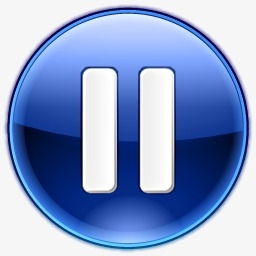
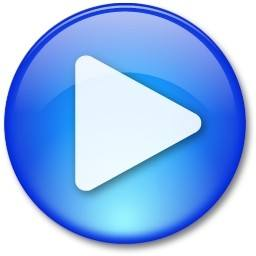
update 08-21

diff --git a/sikplayer.cpp b/sikplayer.cpp
@@ -7,6 +7,8 @@
 #include "QPalette"
 #include "QGridLayout"
 #include "mystatuswidget.h"
+#include <QTableWidgetItem>
+#include "QMessageBox"
 using namespace SikConfig;
 
 SikPlayer::SikPlayer(QWidget *parent)
@@ -14,19 +16,13 @@ SikPlayer::SikPlayer(QWidget *parent)
     , ui(new Ui::SikPlayer)
 {
     this->setWindowIcon(QIcon(icoUrl));
+    this->setAttribute(Qt::WA_TransparentForMouseEvents);
 
     ui->setupUi(this);
 
     ui->menubar->setVisible(false);
 
-//    connect(ui->fileMenu, &QMenu::triggered, this, [&](){
-//        filelist = QFileDialog::getOpenFileNames();
-//        for(QString file : filelist)
-//        {
-//            QStringList splname = file.split("/");
-//            ui->FileBrowser->append(splname[splname.length()-1]);
-//        }
-//    });
+
 
 //    QPalette pal;
 //    pal.setColor(QPalette::Background, Qt::black);
@@ -40,9 +36,13 @@ SikPlayer::SikPlayer(QWidget *parent)
     videoWidget = new QVideoWidget(this);
     player = new QMediaPlayer();
     player->setVideoOutput(videoWidget);
+    videoWidget->show();
+    playlist = new QMediaPlaylist();
+    player->setPlaylist(playlist);
     fileBrowser = new QTableWidget(this);
     fileBrowser->setColumnCount(2);
     fileBrowser->setHorizontalHeaderLabels({"文件名", "时间"});
+    fileBrowser->setFixedWidth(200);
     mystatusWidget* status = new mystatusWidget(this);
     status->setFixedHeight(150);
     layout->addWidget(videoWidget, 0, 0, 1, 4);
@@ -51,7 +51,33 @@ SikPlayer::SikPlayer(QWidget *parent)
     layout->setSpacing(0);
     ui->centralwidget->setLayout(layout);
 
-    this->setStyleSheet("QWidget#status{border: 3px, gray; border-color: gray; border-style: groove; border-radius: 5px;}");
+    connect(ui->fileMenu, &QMenu::triggered, this, [&](){
+        QStringList templist = QFileDialog::getOpenFileNames();
+        for(QString file : templist)
+        {
+            filelist.append(file);
+        }
+        for(QString file : filelist)
+        {
+            playlist->addMedia(QMediaContent(QUrl(file)));
+        }
+        updateList(filelist);
+    });
+
+    connect(status, &mystatusWidget::Play, this, [&](){
+        if(playlist->isEmpty())
+        {
+            QMessageBox();
+            return;
+        }
+        player->play();
+    });
+
+    connect(status, &mystatusWidget::Stop, this, [&](){
+        player->play();
+    });
+
+    //this->setStyleSheet("QWidget#status{border: 3px, gray; border-color: gray; border-style: groove; border-radius: 5px;}");
 }
 
 SikPlayer::~SikPlayer()
@@ -62,4 +88,15 @@ SikPlayer::~SikPlayer()
 void SikPlayer::enterEvent(QEvent*)
 {
     ui->menubar->show();
+}
+
+void SikPlayer::updateList(QStringList &playlist)
+{
+    fileBrowser->setRowCount(playlist.count());
+    for(int i=0; i<playlist.size(); ++i)
+    {
+        QStringList splname = playlist[i].split("/");
+        QTableWidgetItem* item = new QTableWidgetItem(splname[splname.size()-1]);
+        fileBrowser->setItem(i, 0, item);
+    }
 }

diff --git a/mystatuswidget.cpp b/mystatuswidget.cpp
@@ -9,6 +9,7 @@ mystatusWidget::mystatusWidget(QWidget *parent) :
     QWidget(parent),
     ui(new Ui::mystatusWidget)
 {
+    isplay = false;
     ui->setupUi(this);
     ui->upButton->setIcon(QIcon(upUrl));
     ui->upButton->setFixedWidth(50);
@@ -21,9 +22,33 @@ mystatusWidget::mystatusWidget(QWidget *parent) :
     ui->stopButton->setFlat(true);
     ui->stopButton->setFixedSize(50, 50);
     ui->timelabel->setFixedHeight(50);
+
+    connect(ui->stopButton, &QPushButton::clicked, this, [&](){
+        if(isplay)
+        {
+            ui->stopButton->setIcon(QIcon(stopUrl));
+            sendStop();
+        }
+        else
+        {
+            ui->stopButton->setIcon(QIcon(startUrl));
+            sendStop();
+        }
+        isplay = !isplay;
+    });
 }
 
 mystatusWidget::~mystatusWidget()
 {
     delete ui;
+}
+
+void mystatusWidget::sendPlay()
+{
+    emit Play();
+}
+
+void mystatusWidget::sendStop()
+{
+    emit Stop();
 }

diff --git a/sikplayer.h b/sikplayer.h
@@ -5,6 +5,7 @@
 #include <QMediaPlayer>
 #include <QVideoWidget>
 #include <QTableWidget>
+#include <QMediaPlaylist>
 
 QT_BEGIN_NAMESPACE
 namespace Ui { class SikPlayer; }
@@ -27,5 +28,7 @@ private:
     QVideoWidget* videoWidget;
     QTableWidget* fileBrowser;
     QMediaPlayer* player;
+    QMediaPlaylist* playlist;
+    void updateList(QStringList& playlist);
 };
 #endif // SIKPLAYER_H

diff --git a/resConfig.h b/resConfig.h
@@ -8,6 +8,7 @@ namespace SikConfig
     static QString upUrl = ":/images/up.jpg";
     static QString backUrl = ":/images/back.jpg";
     static QString stopUrl = ":/images/stop.jpg";
+    static QString startUrl = ":/images/start.jpg";
 }
 
 #endif // RESCONFIG_H

diff --git a/mystatuswidget.h b/mystatuswidget.h
@@ -17,6 +17,15 @@ public:
 
 private:
     Ui::mystatusWidget *ui;
+    bool isplay;
+
+public slots:
+    void sendPlay();
+    void sendStop();
+
+signals:
+    void Play();
+    void Stop();
 };
 
 #endif // MYSTATUSWIDGET_H

diff --git a/main.cpp b/main.cpp
@@ -1,5 +1,5 @@
 #include "sikplayer.h"
-//#include "mystatuswidget.h"
+#include "mystatuswidget.h"
 #include <QApplication>
 
 int main(int argc, char *argv[])
